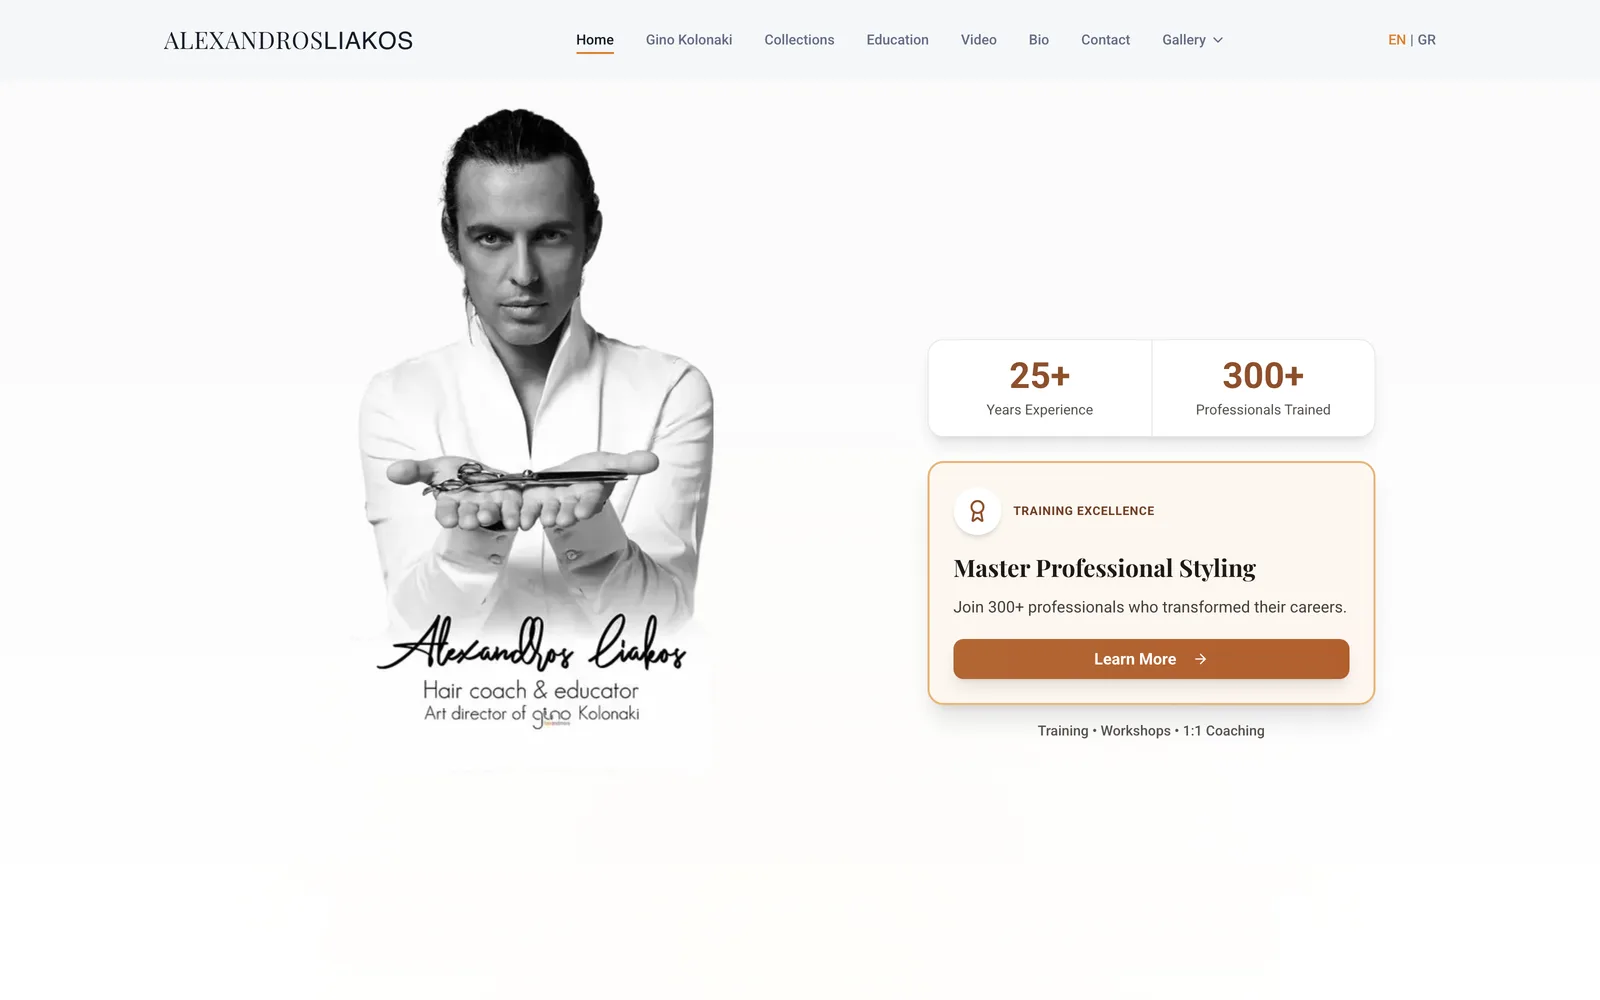
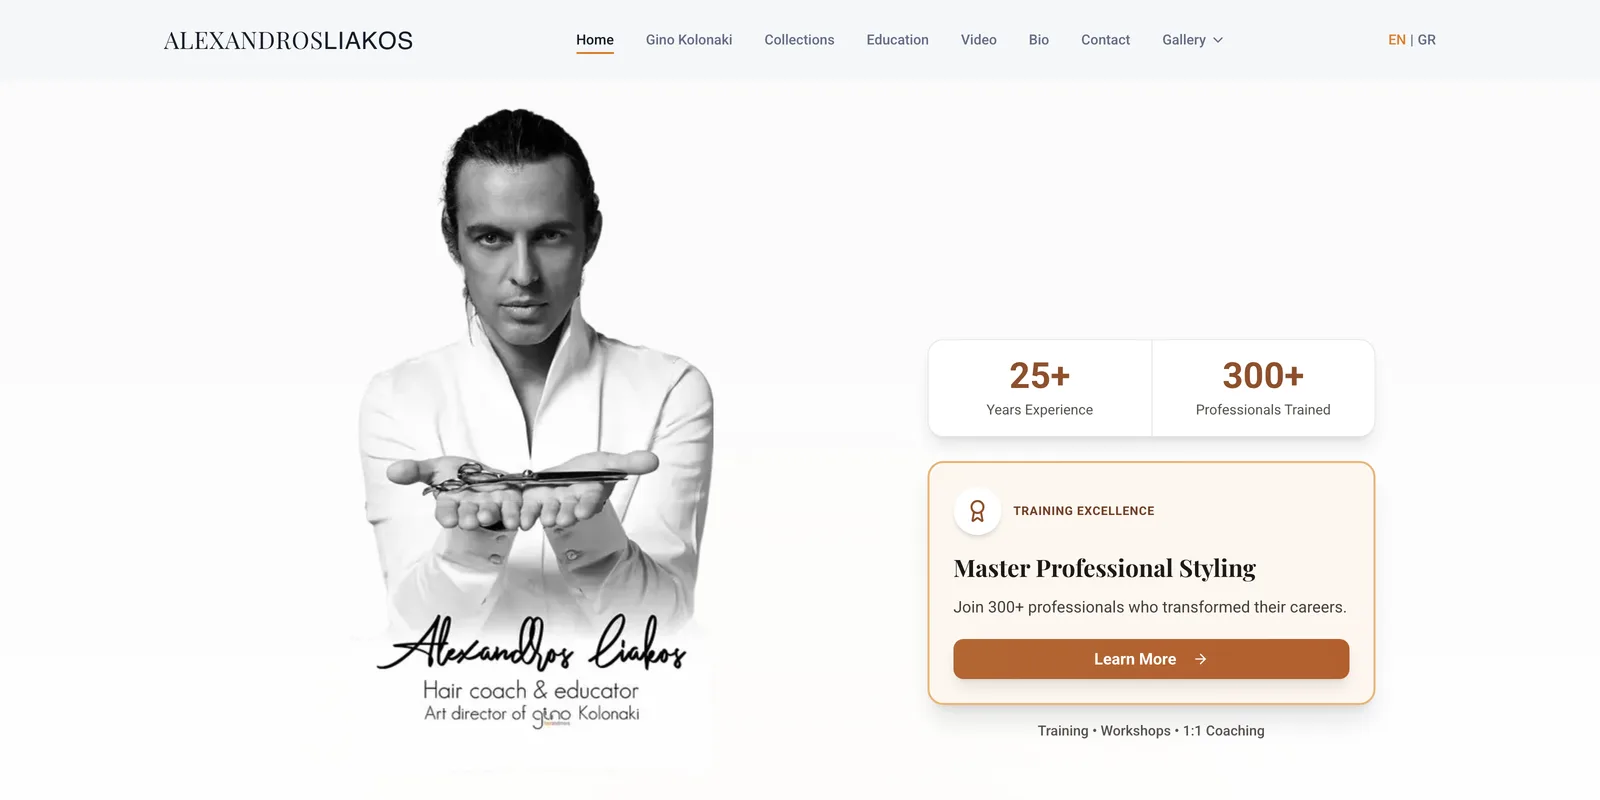
fix: trim empty space beneath the Alexandros preview
Crop the captured hero to its content (2:1) and match the browser frame's
aspect ratio, removing the dead whitespace band below the site content in the
case-study and landing-page previews. Image now 1600x800; no content cropped.

diff --git a/src/components/BrowserFrame.tsx b/src/components/BrowserFrame.tsx
@@ -15,7 +15,7 @@ export function BrowserFrame({ url, children }: BrowserFrameProps) {
         <span className="h-2.5 w-2.5 rounded-full bg-line-strong" aria-hidden="true" />
         <span className="ml-3 truncate rounded-full bg-bone px-3 py-1 text-xs text-muted">{url}</span>
       </div>
-      <div className="aspect-[16/10] w-full">{children}</div>
+      <div className="aspect-[2/1] w-full">{children}</div>
     </figure>
   );
 }

diff --git a/src/pages/HairBeauty.tsx b/src/pages/HairBeauty.tsx
@@ -162,7 +162,7 @@ export default function HairBeauty() {
                   src="/work/alexandros-liakos.webp"
                   alt="Alexandros Liakos Hair Expert and Educator website"
                   width={1600}
-                  height={1000}
+                  height={800}
                   loading="lazy"
                   decoding="async"
                   className="h-full w-full object-cover object-top"

diff --git a/src/sections/SelectedWork.tsx b/src/sections/SelectedWork.tsx
@@ -65,7 +65,7 @@ export function SelectedWork() {
                   src="/work/alexandros-liakos.webp"
                   alt="Alexandros Liakos Hair Expert and Educator website"
                   width={1600}
-                  height={1000}
+                  height={800}
                   loading="lazy"
                   decoding="async"
                   className="h-full w-full object-cover object-top"
